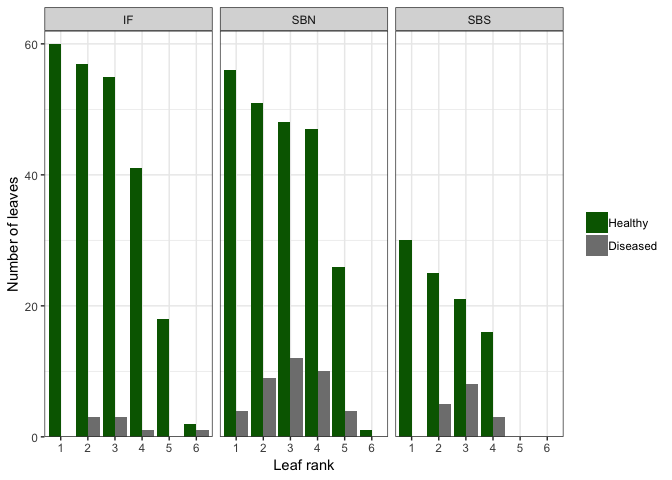
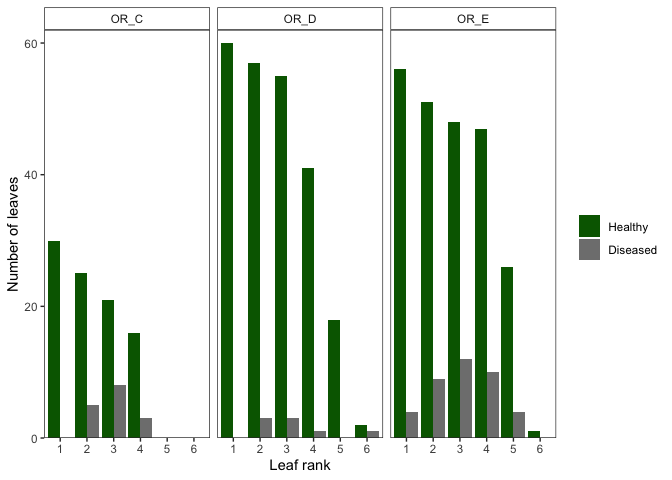
Adjusted leaf comparison figure

Changed region(s): [[0.0312, 0.0, 1.0, 1.0]]

diff --git a/oregon-leaf2/Leaf2_Analysis.md b/oregon-leaf2/Leaf2_Analysis.md
@@ -26,30 +26,36 @@ sites or within each site (assessed using GLMs, see below).
 #### Prevalence by leaf rank
 
     ## New names:
-    ## * `total leaf area` -> `total leaf area..23`
-    ## * `total leaf area` -> `total leaf area..24`
-    ## * `` -> `..25`
+    ## * `total leaf area` -> `total leaf area...23`
+    ## * `total leaf area` -> `total leaf area...24`
+    ## * `` -> ...25
 
-    ## # A tibble: 16 x 6
-    ## # Groups:   Site [?]
-    ##    Site  Leaf      n diseased healthy prevalence
-    ##    <fct> <fct> <int>    <int>   <int>      <dbl>
-    ##  1 IF    1        60        0      60     0     
-    ##  2 IF    2        60        3      57     0.05  
-    ##  3 IF    3        58        3      55     0.0517
-    ##  4 IF    4        42        1      41     0.0238
-    ##  5 IF    5        18        0      18     0     
-    ##  6 IF    6         3        1       2     0.333 
-    ##  7 SBN   1        60        4      56     0.0667
-    ##  8 SBN   2        60        9      51     0.15  
-    ##  9 SBN   3        60       12      48     0.2   
-    ## 10 SBN   4        57       10      47     0.175 
-    ## 11 SBN   5        30        4      26     0.133 
-    ## 12 SBN   6         1        0       1     0     
-    ## 13 SBS   1        30        0      30     0     
-    ## 14 SBS   2        30        5      25     0.167 
-    ## 15 SBS   3        29        8      21     0.276 
-    ## 16 SBS   4        19        3      16     0.158
+    ## Warning: Unknown or uninitialised column: `Meadow`.
+
+    ## `summarise()` has grouped output by 'Site', 'Meadow', 'Depth'. You can override using the `.groups` argument.
+
+    ## `summarise()` has grouped output by 'Site', 'Meadow'. You can override using the `.groups` argument.
+
+    ## # A tibble: 16 x 7
+    ## # Groups:   Site, Meadow [3]
+    ##    Site  Meadow Leaf      n diseased healthy prevalence
+    ##    <fct> <chr>  <fct> <int>    <int>   <int>      <dbl>
+    ##  1 IF    OR_D   1        60        0      60     0     
+    ##  2 IF    OR_D   2        60        3      57     0.05  
+    ##  3 IF    OR_D   3        58        3      55     0.0517
+    ##  4 IF    OR_D   4        42        1      41     0.0238
+    ##  5 IF    OR_D   5        18        0      18     0     
+    ##  6 IF    OR_D   6         3        1       2     0.333 
+    ##  7 SBN   OR_E   1        60        4      56     0.0667
+    ##  8 SBN   OR_E   2        60        9      51     0.15  
+    ##  9 SBN   OR_E   3        60       12      48     0.2   
+    ## 10 SBN   OR_E   4        57       10      47     0.175 
+    ## 11 SBN   OR_E   5        30        4      26     0.133 
+    ## 12 SBN   OR_E   6         1        0       1     0     
+    ## 13 SBS   OR_C   1        30        0      30     0     
+    ## 14 SBS   OR_C   2        30        5      25     0.167 
+    ## 15 SBS   OR_C   3        29        8      21     0.276 
+    ## 16 SBS   OR_C   4        19        3      16     0.158
 
 ![](Leaf2_Analysis_files/figure-gfm/data-1.png)<!-- -->
 
